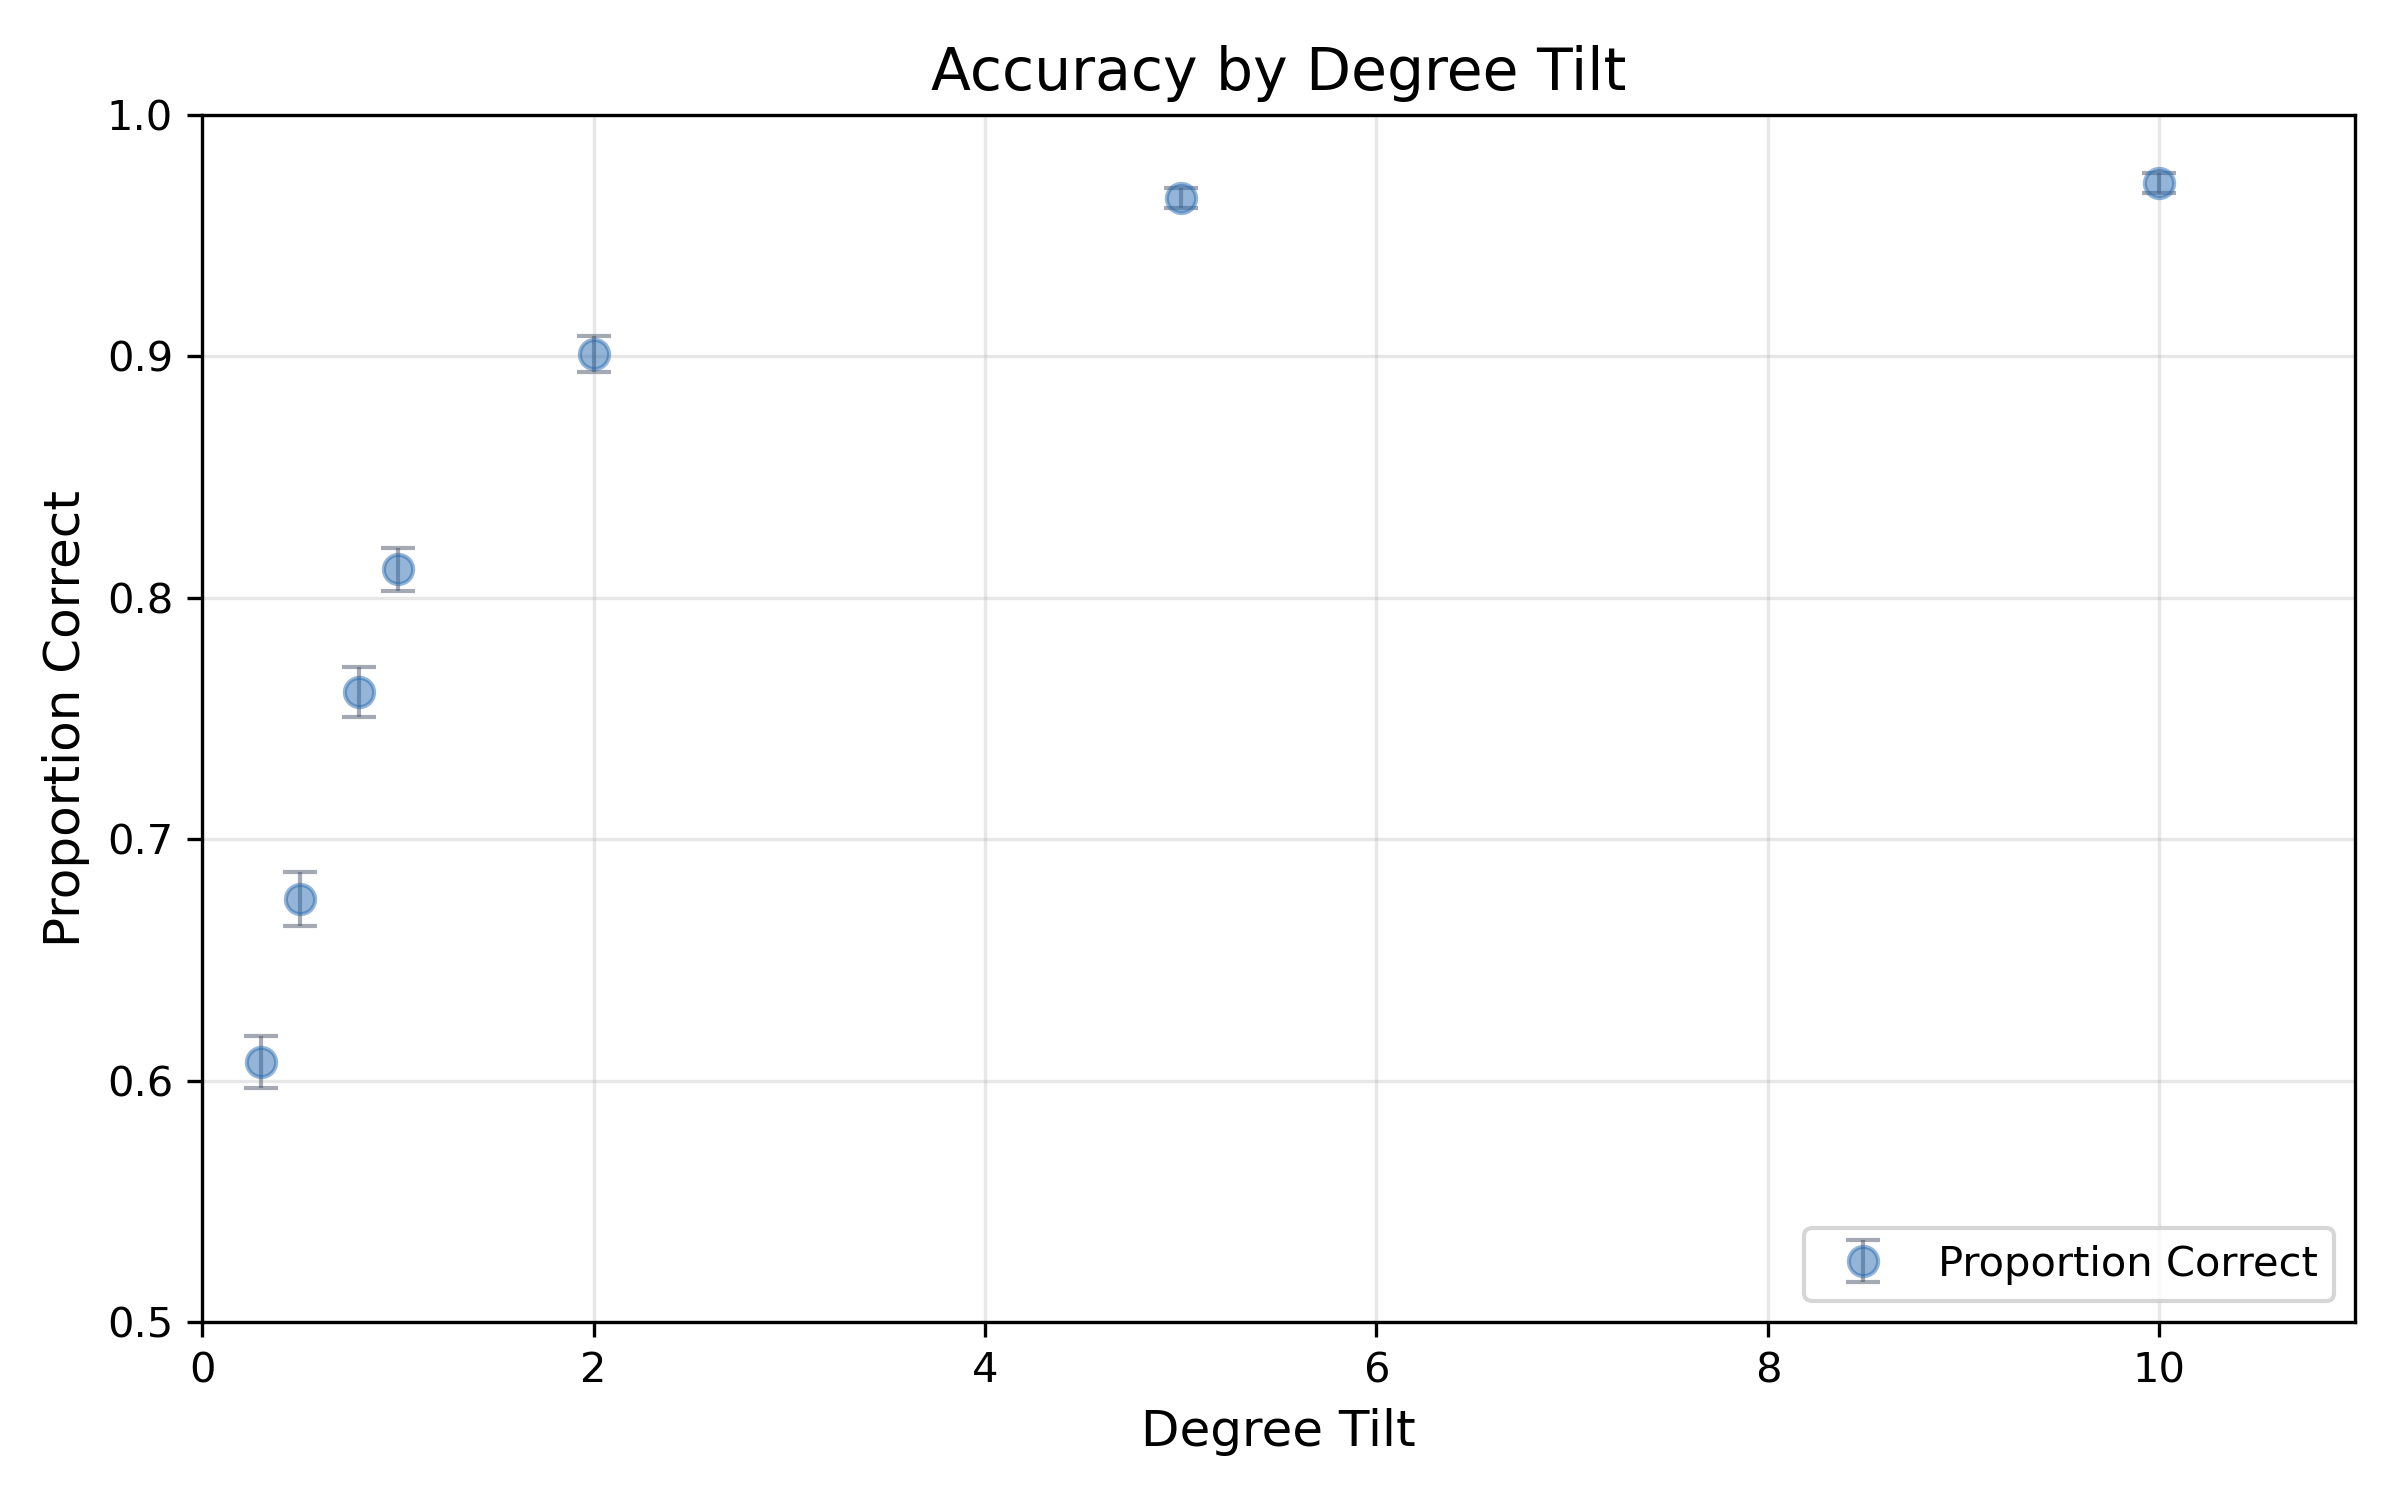
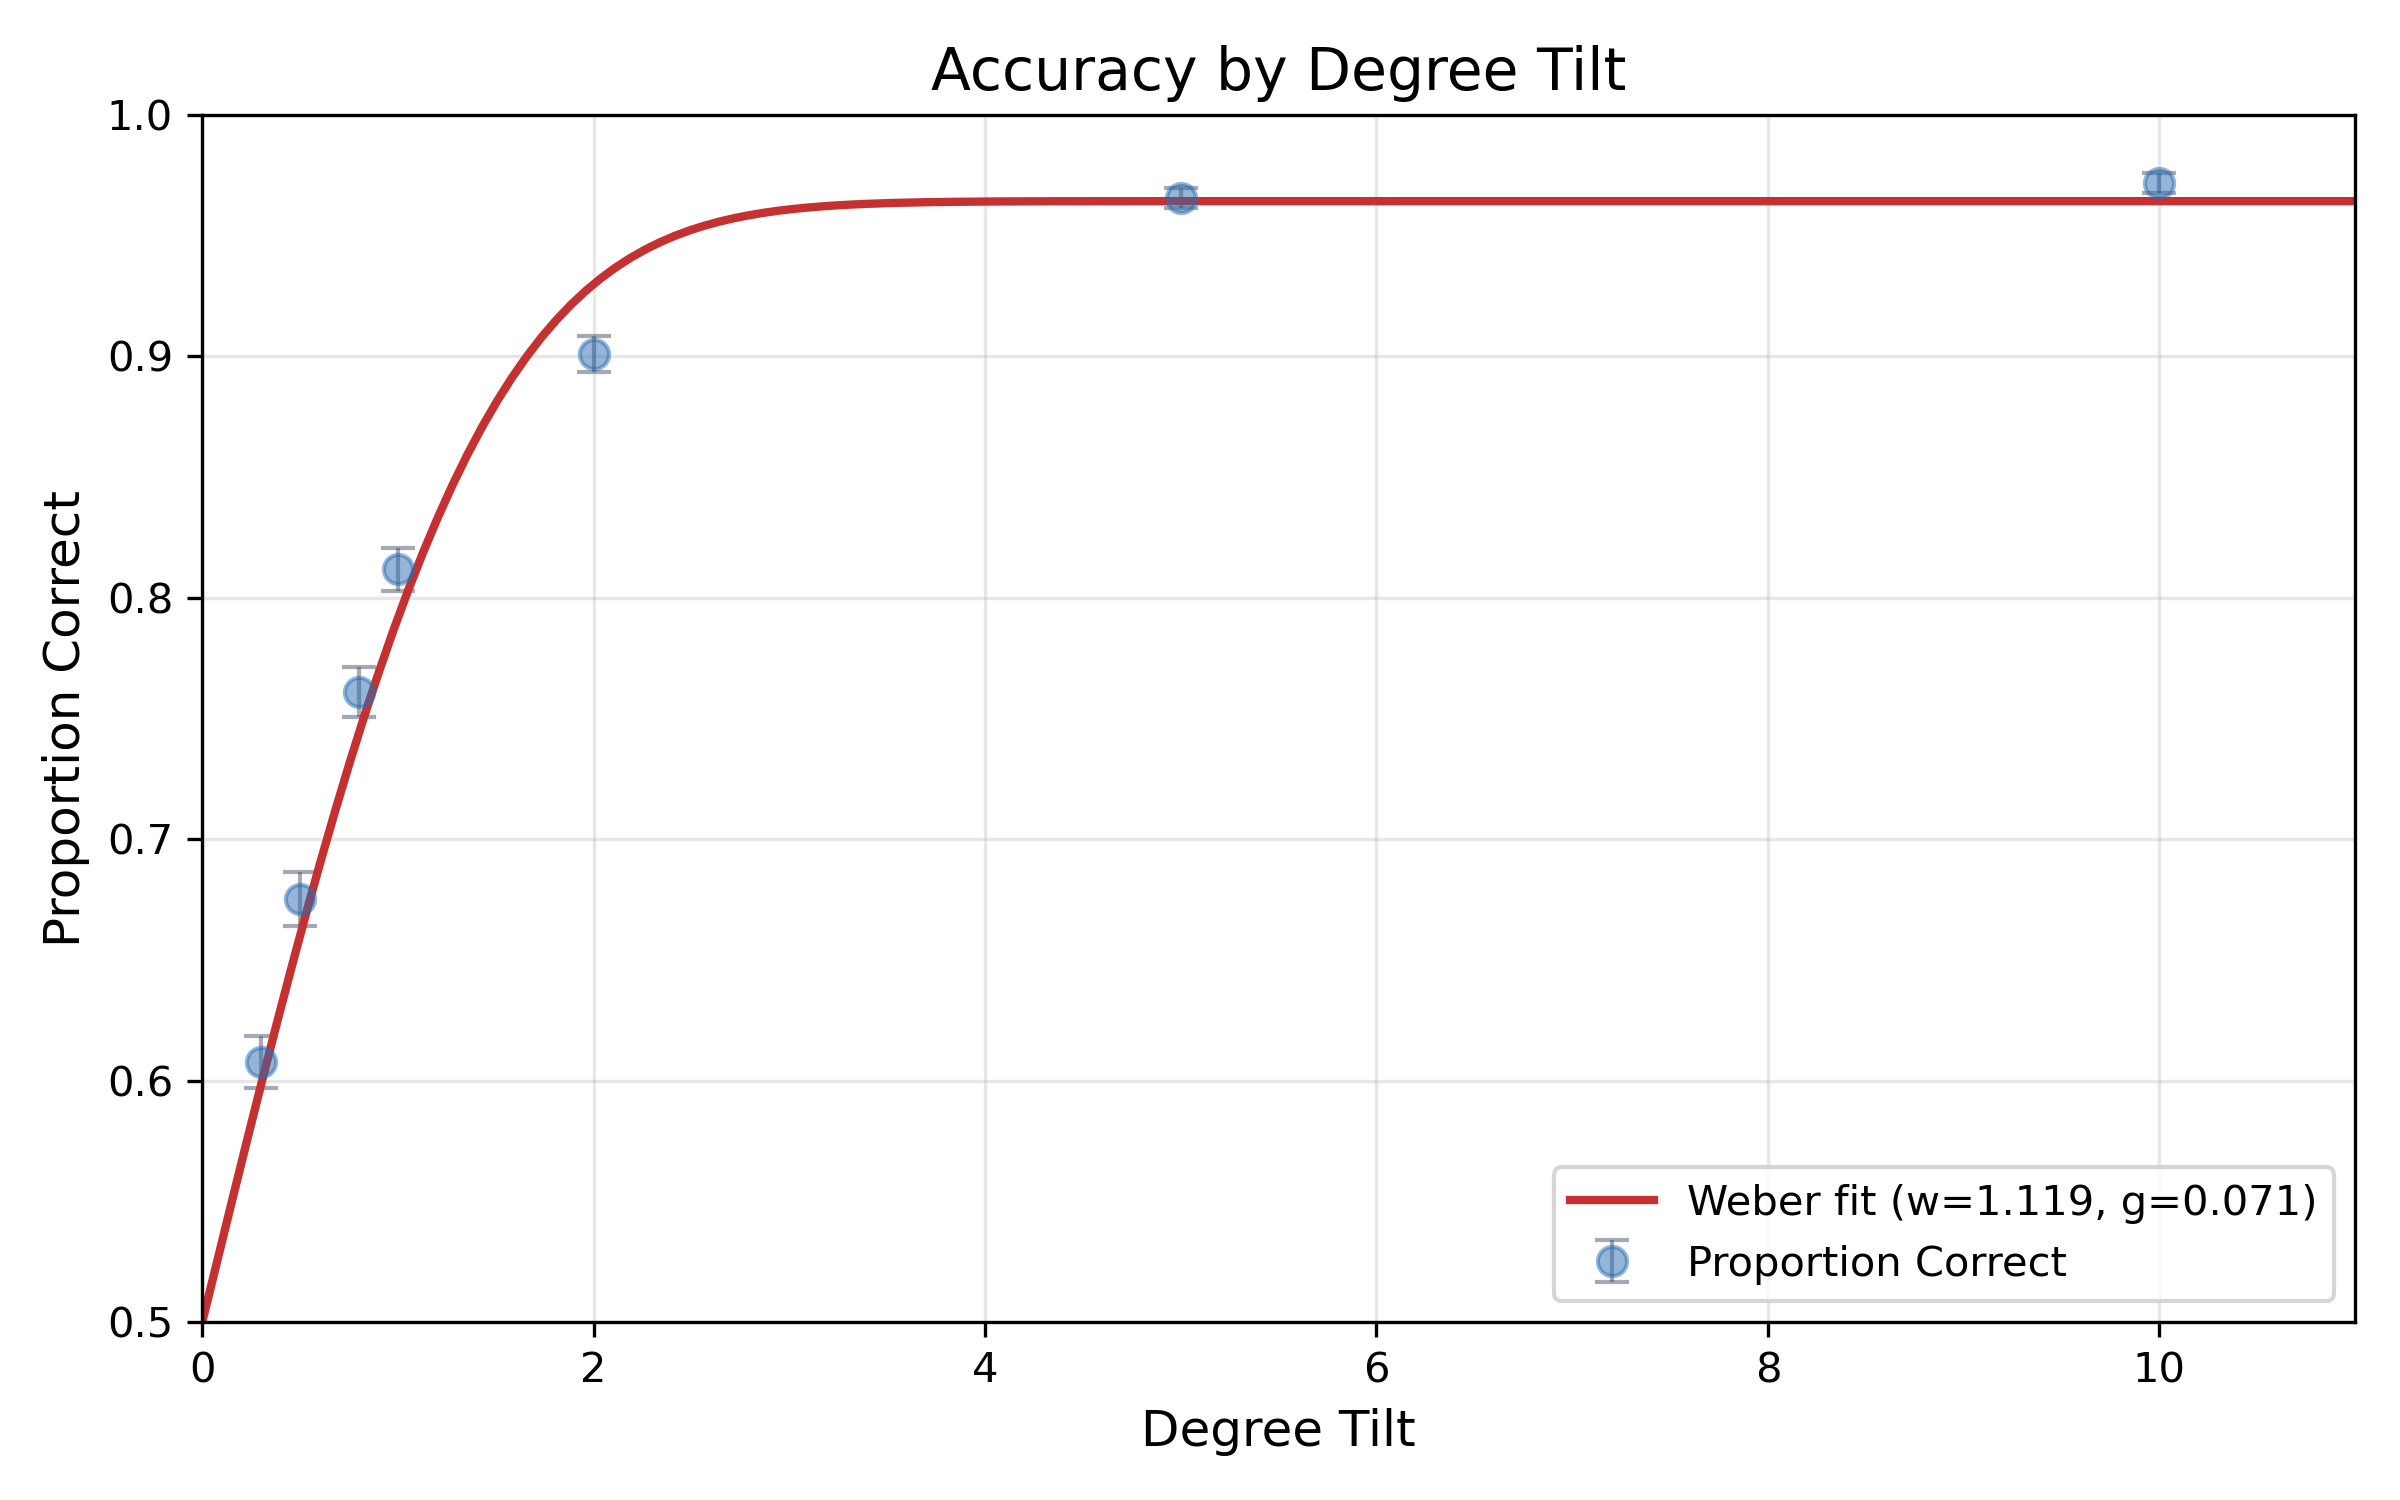
Add weber, attempt fix

diff --git a/TiltLineDegree/analysis/analysis.py b/TiltLineDegree/analysis/analysis.py
@@ -10,9 +10,11 @@ DEBUG = True
 
 NUM_TRIALS_PER_DEGREE_MAGNITUDE = 10
 
-RATIOS = [0.1, 0.5, 1, 2, 5, 10, 15]
+# Distinct tilt magnitudes (degrees) presented per participant, matching
+# DEGREES_POSSIBLE_TRIALS in the experiment's constants.ts (EXPERIMENT_VERSION 2).
+DEGREES = [0.3, 0.5, 0.8, 1, 2, 5, 10]
 
-EXPECTED_TRIALS_PER_PARTICIPANT = len(RATIOS) * NUM_TRIALS_PER_DEGREE_MAGNITUDE
+EXPECTED_TRIALS_PER_PARTICIPANT = len(DEGREES) * NUM_TRIALS_PER_DEGREE_MAGNITUDE
 
 FILTER_CORRECT_PERCENTAGE = 0.65
 
@@ -108,38 +110,38 @@ if DEBUG:
 print("Average Correct By Ratio Group: \n", df_valid_participants.groupby("degree_magnitude")["is_correct"].mean())
 print("\n\n")
 
-# ### Step 4b: Fit Weber Model (with guess rate) Per Participant ###
+### Step 4b: Fit Weber Model (with guess rate) Per Participant ###
 
-# # probability of correct given Weber fraction w, guess rate g, ratio r
-# def prob_wg(w, g, r):
-#     return (1 - g) * norm.cdf((r - 1) / (w * np.sqrt(1 + r**2))) + g / 2
+# probability of correct given Weber threshold w (in degrees), guess rate g, tilt magnitude d
+def prob_wg(w, g, d):
+    return (1 - g) * norm.cdf(d / w) + g / 2
 
-# # negative log-likelihood for trial-level (0/1) outcomes
-# def nll_wg(params, r, y):
-#     p = prob_wg(params[0], params[1], r)
-#     p = np.clip(p, 1e-12, 1 - 1e-12)
-#     return -np.sum(np.log(p * y + (1 - p) * (1 - y)))
+# negative log-likelihood for trial-level (0/1) outcomes
+def nll_wg(params, d, y):
+    p = prob_wg(params[0], params[1], d)
+    p = np.clip(p, 1e-12, 1 - 1e-12)
+    return -np.sum(np.log(p * y + (1 - p) * (1 - y)))
 
-# WG_BOUNDS = [(1e-4, 3.0), (0.0, 1.0)]
-# WG_START = [1 / 3, 1 / 3]
+WG_BOUNDS = [(1e-4, 30.0), (0.0, 1.0)]
+WG_START = [5.0, 1 / 3]
 
-# fits = []
-# for pid, sub in df_valid_participants.groupby("prolific_id"):
-#     r = sub["raw_ratio"].to_numpy(dtype=float)
-#     y = sub["is_correct"].to_numpy(dtype=float)
-#     res = minimize(nll_wg, WG_START, args=(r, y), method="L-BFGS-B", bounds=WG_BOUNDS)
-#     fits.append({"prolific_id": pid, "w_fit": res.x[0], "g_fit": res.x[1], "converged": res.success})
+fits = []
+for pid, sub in df_valid_participants.groupby("prolific_id"):
+    d = sub["degree_magnitude"].to_numpy(dtype=float)
+    y = sub["is_correct"].to_numpy(dtype=float)
+    res = minimize(nll_wg, WG_START, args=(d, y), method="L-BFGS-B", bounds=WG_BOUNDS)
+    fits.append({"prolific_id": pid, "w_fit": res.x[0], "g_fit": res.x[1], "converged": res.success})
 
-# model_fits = pd.DataFrame(fits)
-# print("\nPer-participant Weber fits:")
-# print(model_fits.describe()[["w_fit", "g_fit"]])
+model_fits = pd.DataFrame(fits)
+print("\nPer-participant Weber fits:")
+print(model_fits.describe()[["w_fit", "g_fit"]])
 
-# # Group-level fit on pooled trials (for overlay curve)
-# r_all = df_valid_participants["raw_ratio"].to_numpy(dtype=float)
-# y_all = df_valid_participants["is_correct"].to_numpy(dtype=float)
-# group_res = minimize(nll_wg, WG_START, args=(r_all, y_all), method="L-BFGS-B", bounds=WG_BOUNDS)
-# w_group, g_group = group_res.x
-# print(f"\nGroup-level fit (pooled): w = {w_group:.4f}, g = {g_group:.4f}")
+# Group-level fit on pooled trials (for overlay curve)
+d_all = df_valid_participants["degree_magnitude"].to_numpy(dtype=float)
+y_all = df_valid_participants["is_correct"].to_numpy(dtype=float)
+group_res = minimize(nll_wg, WG_START, args=(d_all, y_all), method="L-BFGS-B", bounds=WG_BOUNDS)
+w_group, g_group = group_res.x
+print(f"\nGroup-level fit (pooled): w = {w_group:.4f}, g = {g_group:.4f}")
 
 ### Step 5: Analyze Data | Main Graph with Weber Fit ###
 
@@ -181,14 +183,14 @@ ax.errorbar(
 )
 
 # Overlay Weber model fit (pooled across participants)
-# r_grid = np.linspace(1.0, 1.55, 200)
-# ax.plot(
-#     r_grid,
-#     prob_wg(w_group, g_group, r_grid),
-#     color="#c53030",
-#     linewidth=2,
-#     label=f"Weber fit (w={w_group:.3f}, g={g_group:.3f})",
-# )
+d_grid = np.linspace(0, 15, 200)
+ax.plot(
+    d_grid,
+    prob_wg(w_group, g_group, d_grid),
+    color="#c53030",
+    linewidth=2,
+    label=f"Weber fit (w={w_group:.3f}, g={g_group:.3f})",
+)
 
 ax.set_xlim(0, 11)
 ax.set_ylim(0.5, 1.0)
@@ -203,6 +205,86 @@ plt.savefig("accuracy_by_ratio.png", dpi=300)
 plt.show()
 
 print("Graph saved to accuracy_by_ratio.png")
+
+
+### Step 6: Fit Weber Model in Log-Degree Space (with guess rate) ###
+
+# Same psychometric idea as prob_wg, but the rise is modeled in log-degrees so that
+# location (threshold) and steepness (slope) are independent parameters -- the natural
+# "Weber" axis for log-spaced stimuli. Chance is held at 0.5 (2AFC); ceiling is 1 - g/2.
+#   mu    = log-degree threshold (where the curve crosses halfway to ceiling)
+#   sigma = log-degree slope (larger -> more gradual)
+#   g     = lapse rate
+def prob_wg_log(mu, sigma, g, d):
+    return 0.5 + (0.5 - g / 2) * norm.cdf((np.log(d) - mu) / sigma)
+
+def nll_wg_log(params, d, y):
+    p = prob_wg_log(params[0], params[1], params[2], d)
+    p = np.clip(p, 1e-12, 1 - 1e-12)
+    return -np.sum(np.log(p * y + (1 - p) * (1 - y)))
+
+WG_LOG_BOUNDS = [(-3.0, 3.0), (1e-2, 10.0), (0.0, 1.0)]
+WG_LOG_START = [np.log(2.0), 1.0, 0.05]
+
+fits_log = []
+for pid, sub in df_valid_participants.groupby("prolific_id"):
+    d = sub["degree_magnitude"].to_numpy(dtype=float)
+    y = sub["is_correct"].to_numpy(dtype=float)
+    res = minimize(nll_wg_log, WG_LOG_START, args=(d, y), method="L-BFGS-B", bounds=WG_LOG_BOUNDS)
+    fits_log.append({"prolific_id": pid, "mu_fit": res.x[0], "sigma_fit": res.x[1], "g_fit": res.x[2], "converged": res.success})
+
+model_fits_log = pd.DataFrame(fits_log)
+print("\nPer-participant Weber fits (log-degree):")
+print(model_fits_log.describe()[["mu_fit", "sigma_fit", "g_fit"]])
+
+# Group-level fit on pooled trials (for overlay curve)
+group_res_log = minimize(nll_wg_log, WG_LOG_START, args=(d_all, y_all), method="L-BFGS-B", bounds=WG_LOG_BOUNDS)
+mu_group, sigma_group, g_group_log = group_res_log.x
+print(f"\nGroup-level fit (log-degree, pooled): mu = {mu_group:.4f} (threshold = {np.exp(mu_group):.3f} deg), sigma = {sigma_group:.4f}, g = {g_group_log:.4f}")
+
+### Step 7: Analyze Data | Second Graph on Log X-Axis with Log-Degree Weber Fit ###
+
+fig2, ax2 = plt.subplots(figsize=(8, 5))
+
+ax2.errorbar(
+    final_df_sorted["degree_magnitude"],
+    final_df_sorted["mean"],
+    yerr=final_df_sorted["std_err"],
+    fmt="o",
+    capsize=4,
+    capthick=1,
+    markersize=7,
+    linewidth=1,
+    color="#2b6cb0",
+    ecolor="#4a5568",
+    alpha=0.5,
+    label="Proportion Correct",
+)
+
+# Overlay log-degree Weber fit (pooled across participants), evaluated on a log-spaced grid
+d_grid_log = np.geomspace(0.2, 12, 200)
+ax2.plot(
+    d_grid_log,
+    prob_wg_log(mu_group, sigma_group, g_group_log, d_grid_log),
+    color="#c53030",
+    linewidth=2,
+    label=f"Weber fit (log): thr={np.exp(mu_group):.2f}°, σ={sigma_group:.2f}, g={g_group_log:.3f}",
+)
+
+ax2.set_xscale("log")
+ax2.set_xlim(0.2, 12)
+ax2.set_ylim(0.5, 1.0)
+ax2.set_xlabel("Degree Tilt (log scale)", fontsize=12)
+ax2.set_ylabel("Proportion Correct", fontsize=12)
+ax2.set_title("Accuracy by Degree Tilt (Log Axis)", fontsize=14)
+ax2.legend(loc="lower right")
+ax2.grid(True, which="both", alpha=0.3)
+
+plt.tight_layout()
+plt.savefig("accuracy_by_degree_log.png", dpi=300)
+plt.show()
+
+print("Graph saved to accuracy_by_degree_log.png")
 
 
 
